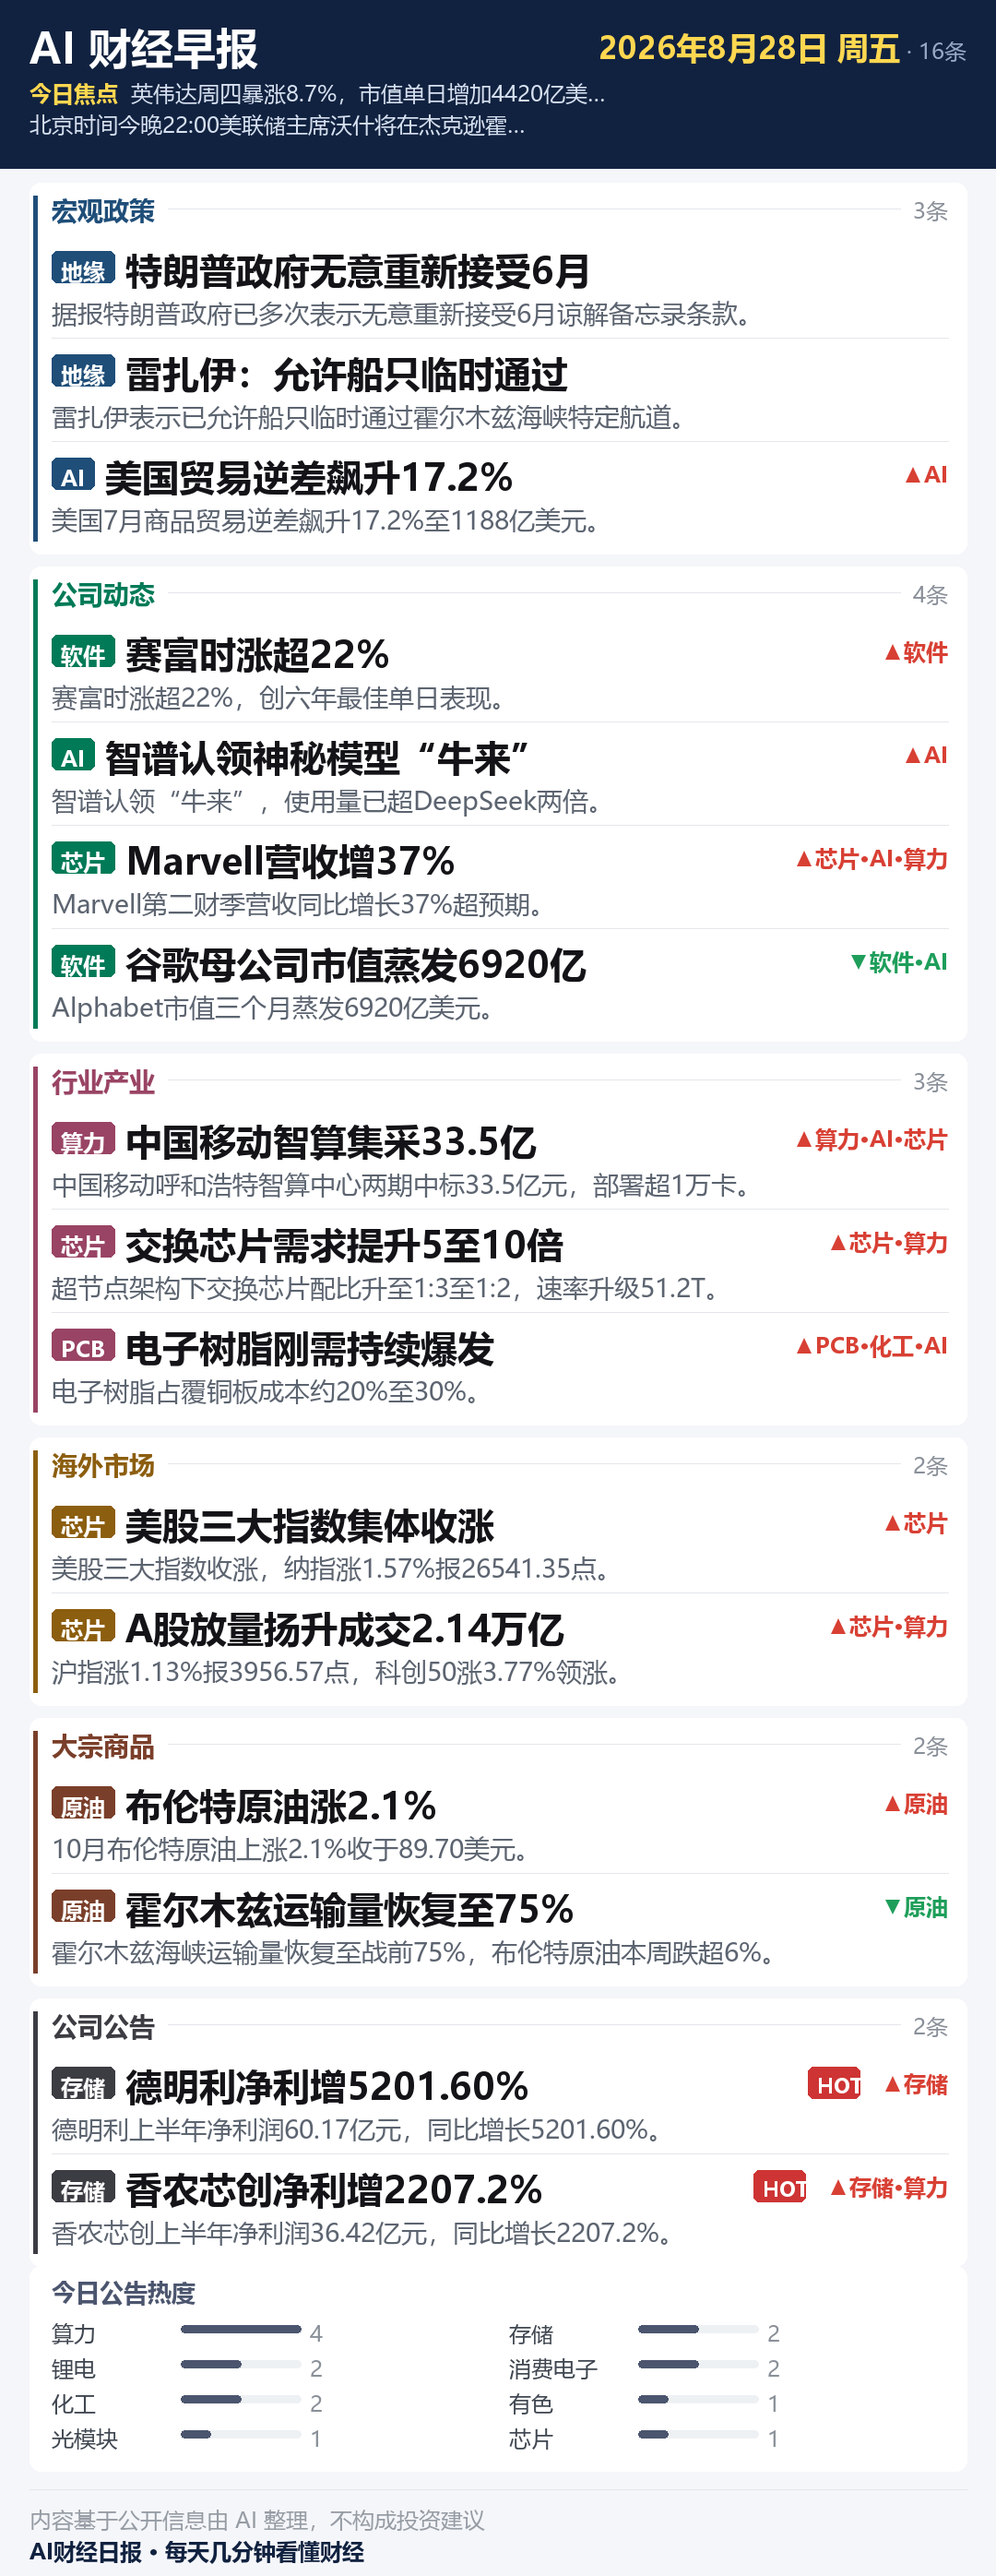
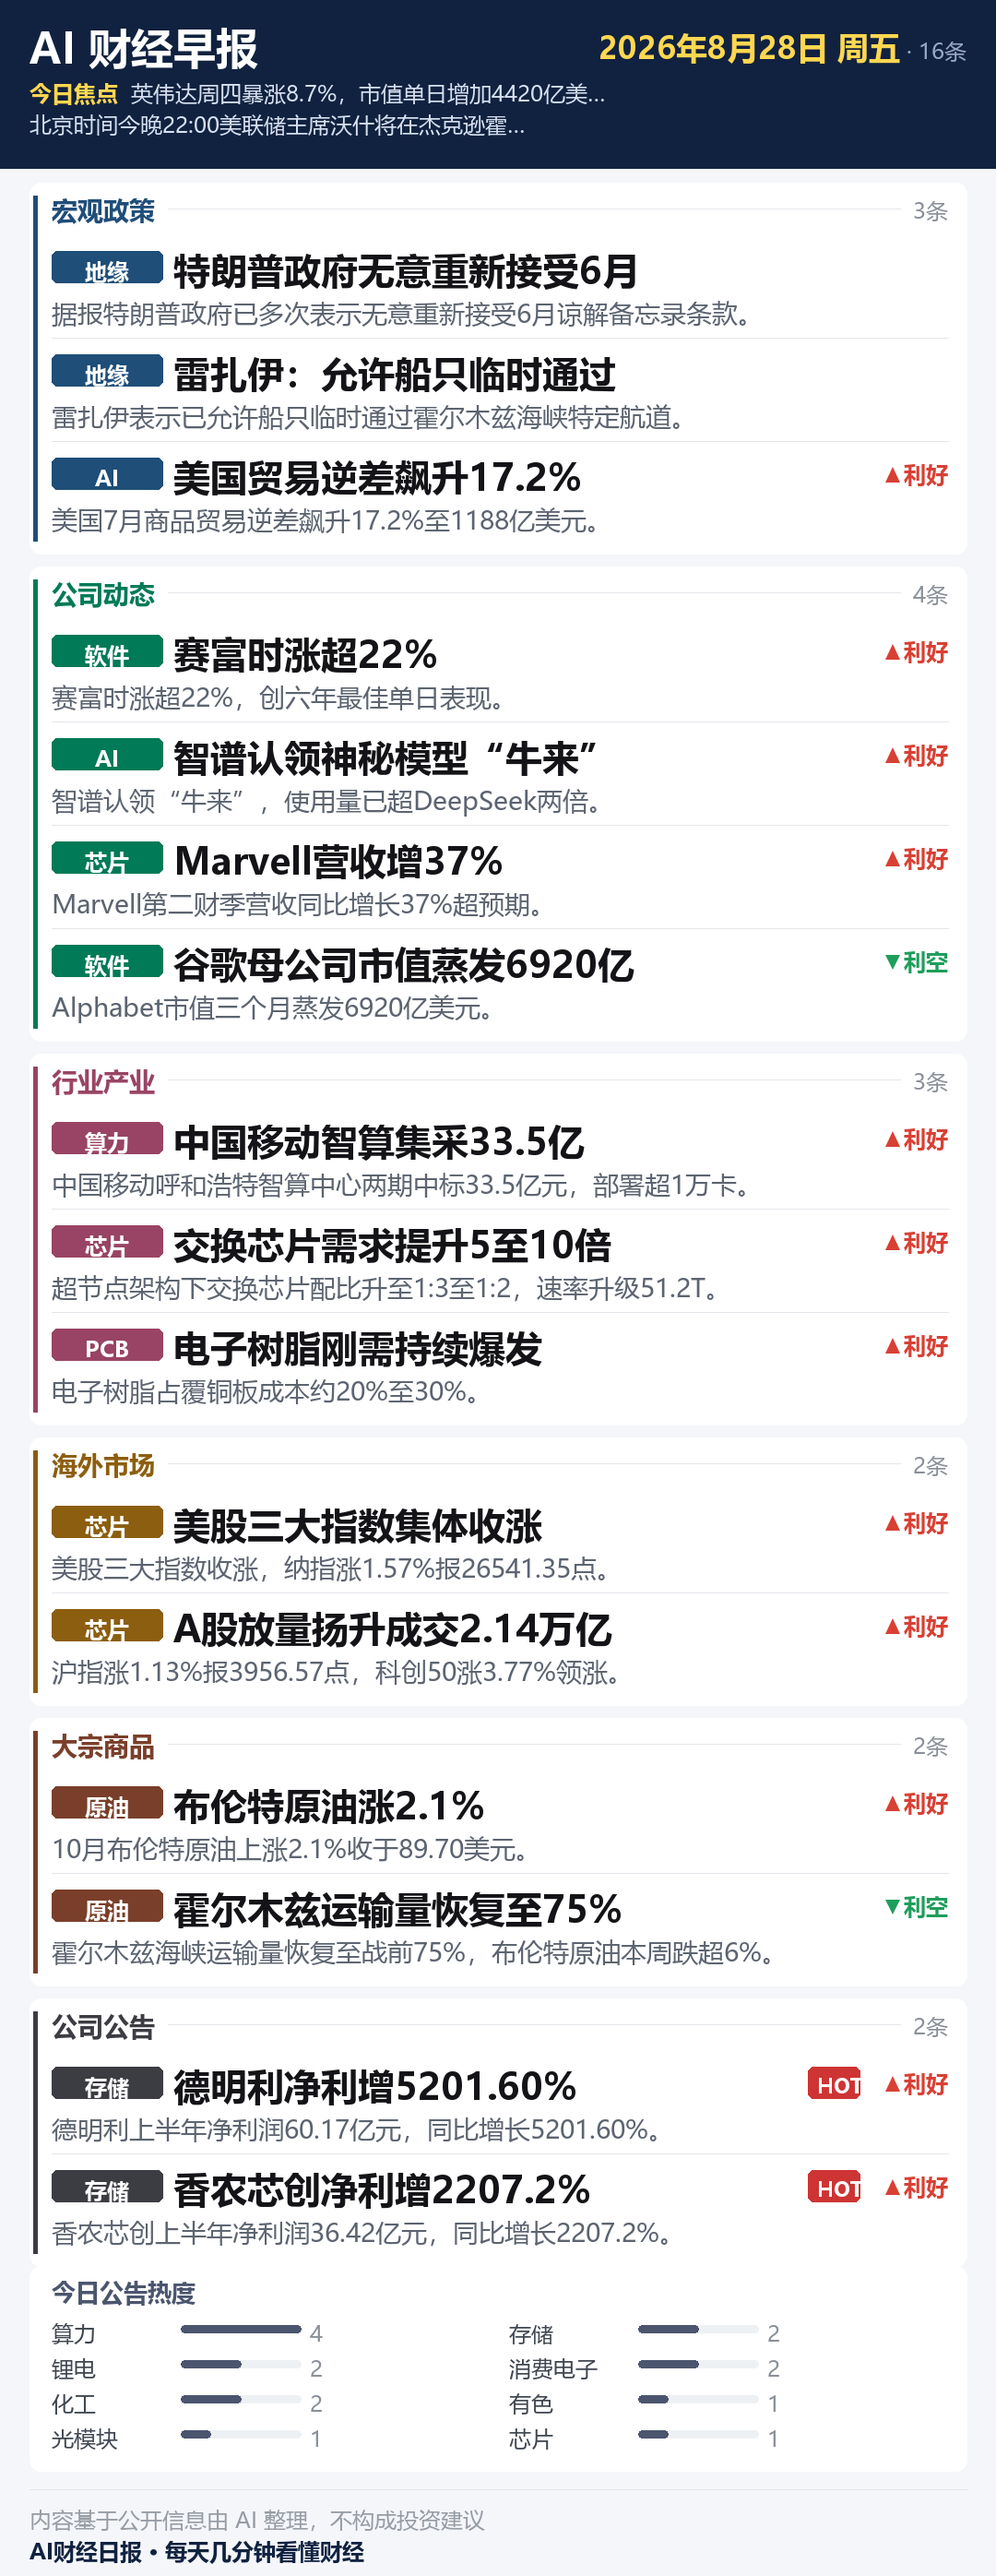
长图槽位契约: 左=归属(板块胶囊) 右=判决(箭头+方向词), 构造性消灭同维度双重编码
codex+grok+kimi 三家独立评审一致判定不合格: 左胶囊与右解读读同一字段(sectors), 字面级重复
裁决落地:
- 右槽去板块串换「▲利好/▼利空」箭头+方向词(grok+kimi 2:1), 消除承压/利空共用▼歧义, 标题可用宽度净增约100px
- 胶囊固定槽宽120px居中(容4字板块词), 标题起点恒定修复左缘抖动
- 无板块条目回退白名单{地缘,政策}, 概念/行情等编辑部词不再上图
- 流程性根因(三家共识): 无槽位契约+两套词表争槽+打地鼠修复无不变量; 新不变量: 左右槽词表构造性互斥
- 离线重渲染验证: 红簇12(▲利好)+绿簇2(▼利空), 视觉确认无重复

diff --git a/generator/image_digest.py b/generator/image_digest.py
@@ -16,6 +16,8 @@ from formats import _font, _wrap, _load_img_tmpl, CAT_COLORS, DEFAULT_COLOR
 W, M = 1080, 32                       # 画布宽 / 页边距
 CW = W - M * 2                        # 内容宽 1016
 ITEM_H, HEAD_H, SEC_HEAD, SEC_GAP = 112, 164, 56, 14
+PILL_SLOT = 120                       # 胶囊固定槽宽(容4字词), 标题起点恒定防抖动
+PILL_TAG_OK = {"地缘", "政策"}        # 无板块条目仅这两类编辑部词可上图(其余对读者零信息)
 BG, HEAD = (245, 246, 250), (17, 34, 64)
 LINE_GREY, TXT_GREY, CNT_GREY = (228, 230, 235), (92, 100, 112), (138, 144, 153)
 DIR_MARK = {"利好": ("▲", (216, 64, 52)), "利空": ("▼", (30, 158, 90)),
@@ -33,21 +35,22 @@ def _truncate(draw, text, font, max_w):
 
 
 def _dir_line(c: dict) -> str:
-    """解读文案(右置短版): ▲AI·软件。中性零信息不占位。"""
-    sectors = c.get("sectors") or []
+    """右槽=判决: 「▲利好」/「▼利空」箭头+方向词。板块词归左胶囊(槽位契约:
+    左=归属 右=判决, 构造性互斥, 杜绝同维度双重编码); 中性零信息不占位。"""
     direction = c.get("direction") or ""
-    if not sectors or not direction or direction == "中性":
+    if direction in ("", "中性") or not (c.get("sectors") or []):
         return ""
-    return f"{DIR_MARK.get(direction, ('◆',))[0]}{'·'.join(sectors[:3])}"
+    return f"{DIR_MARK.get(direction, ('◆',))[0]}{direction}"
 
 
 def _pill(draw, x, y, text, color, probe):
-    """彩色胶囊标签, 返回右端 x。"""
+    """彩色胶囊标签(固定槽宽居中), 返回右端 x。"""
     f = _font(24, True)
-    w = probe.textlength(text, font=f) + 20
-    draw.rounded_rectangle([x, y, x + w, y + 34], radius=6, fill=color)
-    draw.text((x + 10, y + 5), text, font=f, fill=(255, 255, 255))
-    return x + w
+    text = text[:4]
+    tw = probe.textlength(text, font=f)
+    draw.rounded_rectangle([x, y, x + PILL_SLOT, y + 34], radius=6, fill=color)
+    draw.text((x + (PILL_SLOT - tw) / 2, y + 5), text, font=f, fill=(255, 255, 255))
+    return x + PILL_SLOT
 
 
 def render_digest_image(payload: dict, date: str, out_path: str):
@@ -166,10 +169,14 @@ def _draw_item(d, probe, c: dict, color, top: int):
     dir_w = probe.textlength(dirline, font=_font(24, True)) + 14 if dirline else 0
     hot = bool(c.get("hot"))
     hot_w = 66 if hot else 0
-    # 标签胶囊: 优先板块词(软件/AI/芯片), 无板块条目回退条目标签(地缘/公司)
-    pill_text = (c.get("sectors") or [c["tag"]])[0]
-    tag_end = _pill(d, left, r1y + 7, pill_text, color, probe)
-    tx = tag_end + 12
+    # 标签胶囊(左=归属): 板块词优先; 无板块仅 地缘/政策 白名单上图, 其余顶格
+    sectors = c.get("sectors") or []
+    pill_text = sectors[0] if sectors else (c["tag"] if c["tag"] in PILL_TAG_OK else "")
+    if pill_text:
+        _pill(d, left, r1y + 7, pill_text, color, probe)
+        tx = left + PILL_SLOT + 12
+    else:
+        tx = left
     # 右置解读(先画, 标题据此截断)
     if dirline:
         _, mc = DIR_MARK.get(c["direction"], ("◆", (130, 130, 140)))
